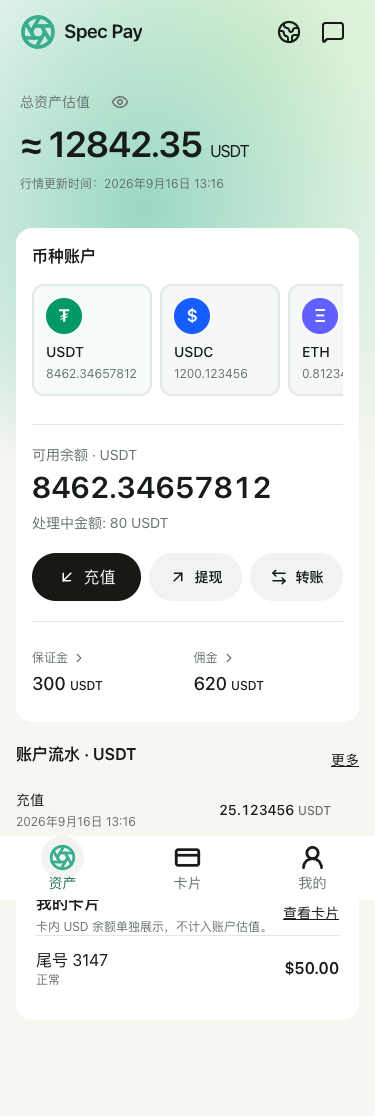
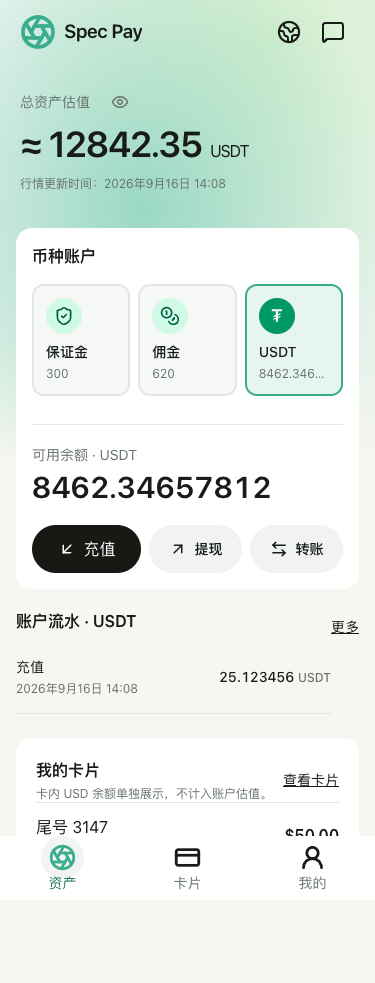
ui: show deposit and commission before currency accounts

diff --git a/resources/js/components/user/AssetCenter.tsx b/resources/js/components/user/AssetCenter.tsx
@@ -9,6 +9,8 @@ import {
     ArrowUpRight,
     ArrowLeftRight,
     ChevronRight,
+    ShieldCheck,
+    Coins,
 } from 'lucide-react';
 import { t, dateTime } from '@/i18n';
 
@@ -81,6 +83,39 @@ export function AssetCenter({ overview }: { overview: AssetOverview }) {
     const current = overview.assets.find((a) => a.asset === selected) ?? overview.assets[0];
     if (!current) return null;
     const show = (value: string) => (hidden ? '••••••' : exactAmount(value));
+    const usdt = overview.assets.find((a) => a.asset === 'USDT');
+    const managedAccounts = usdt
+        ? [
+              {
+                  id: 'deposit',
+                  label: 'Security deposit',
+                  amount: usdt.deposit,
+                  href: '/security-deposit',
+                  action: 'Manage security deposit',
+                  icon: ShieldCheck,
+              },
+              {
+                  id: 'commission',
+                  label: 'Commission',
+                  amount: usdt.commission,
+                  href: '/promotion',
+                  action: 'Manage commission',
+                  icon: Coins,
+              },
+          ]
+        : [];
+    const managed = managedAccounts.find((a) => a.id === selected);
+    const tabs = [
+        ...managedAccounts.map((a) => ({ ...a, asset: 'USDT' })),
+        ...overview.assets.map((a) => ({
+            id: a.asset,
+            label: a.asset,
+            amount: a.available,
+            asset: a.asset,
+            icon: null,
+        })),
+    ];
+    const detailAmount = managed?.amount ?? current.available;
     return (
         <div className="space-y-5">
             <section className="px-1 py-4">
@@ -115,98 +150,98 @@ export function AssetCenter({ overview }: { overview: AssetOverview }) {
                     aria-label={t('Currency accounts')}
                     className="flex gap-2 overflow-x-auto pb-2"
                 >
-                    {overview.assets.map((a) => (
+                    {tabs.map((a) => (
                         <button
-                            key={a.asset}
+                            key={a.id}
                             role="tab"
-                            aria-selected={selected === a.asset}
-                            onClick={() => setSelected(a.asset)}
-                            className={`w-[120px] shrink-0 sm:flex-1 rounded-xl border-2 p-3 text-left transition-colors focus-visible:outline-2 ${selected === a.asset ? 'border-primary bg-primary/5' : 'border-transparent bg-muted/60'}`}
+                            aria-selected={selected === a.id}
+                            aria-label={t(a.label)}
+                            onClick={() => setSelected(a.id)}
+                            className={`user-asset-account flex w-[calc((100%-1rem)/3)] min-w-24 shrink-0 flex-col items-start sm:flex-1 rounded-xl border-2 p-3 text-left transition-colors focus-visible:outline-2 ${selected === a.id ? 'border-primary bg-primary/5' : 'border-transparent bg-muted/60'}`}
                         >
-                            <AssetIcon asset={a.asset} />
-                            <span className="mt-2 block text-sm font-medium">{a.asset}</span>
+                            {a.icon ? (
+                                <span
+                                    aria-hidden
+                                    className="flex size-9 shrink-0 items-center justify-center rounded-full bg-emerald-100 text-emerald-800"
+                                >
+                                    <a.icon size={20} />
+                                </span>
+                            ) : (
+                                <AssetIcon asset={a.asset} />
+                            )}
+                            <span className="mb-1 mt-2 block w-full break-words text-sm font-medium">
+                                {t(a.label)}
+                            </span>
                             <span
-                                title={show(a.available)}
-                                className="mt-1 block truncate text-xs text-muted-foreground"
+                                title={show(a.amount)}
+                                className="mt-auto block w-full truncate text-xs text-muted-foreground"
                             >
-                                {show(a.available)}
+                                {show(a.amount)}
                             </span>
                         </button>
                     ))}
                 </div>
                 <div role="tabpanel" className="mt-5 border-t pt-5">
                     <p className="text-sm text-muted-foreground">
-                        {t('Available balance')} · {current.asset}
+                        {t(managed?.label ?? 'Available balance')} ·{' '}
+                        {managed ? 'USDT' : current.asset}
                     </p>
                     <p
-                        className={`mt-1 break-all font-semibold tabular-nums ${show(current.available).length > 18 ? 'text-xl sm:text-2xl' : 'text-3xl'}`}
+                        className={`mt-1 break-all font-semibold tabular-nums ${show(detailAmount).length > 18 ? 'text-xl sm:text-2xl' : 'text-3xl'}`}
                     >
-                        {show(current.available)}
+                        {show(detailAmount)}
                     </p>
-                    <p className="mt-2 break-all text-sm text-muted-foreground">
-                        {t('Processing amount')}: {show(current.held)} {current.asset}
-                    </p>
-                    <div className="mt-5 flex flex-wrap gap-2">
-                        {current.rails.some((r) => r.deposit) && (
-                            <Link
-                                href={`/assets/operate?mode=deposit&asset=${current.asset}`}
-                                className="flex min-h-12 flex-1 items-center justify-center gap-2 rounded-full bg-primary px-4 text-sm font-medium text-primary-foreground"
-                            >
-                                <ArrowDownLeft size={18} />
-                                {t('Top up')}
-                            </Link>
-                        )}
-                        {current.rails.some((r) => r.withdrawal) && (
-                            <Link
-                                href={`/assets/operate?mode=withdrawal&asset=${current.asset}`}
-                                className="flex min-h-12 flex-1 items-center justify-center gap-2 rounded-full bg-muted px-4 text-sm font-medium"
-                            >
-                                <ArrowUpRight size={18} />
-                                {t('Withdraw')}
-                            </Link>
-                        )}
-                        {current.asset === 'USDT' && current.transfer && (
-                            <Link
-                                href="/wallet/transfer"
-                                className="flex min-h-12 flex-1 items-center justify-center gap-2 rounded-full bg-muted px-4 text-sm font-medium"
-                            >
-                                <ArrowLeftRight size={18} />
-                                {t('Transfer')}
-                            </Link>
-                        )}
-                        {current.exchange && (
-                            <Link
-                                href={`/assets/operate?mode=exchange&asset=${current.asset}`}
-                                className="flex min-h-12 flex-1 items-center justify-center gap-2 rounded-full bg-muted px-4 text-sm font-medium"
-                            >
-                                <ArrowLeftRight size={18} />
-                                {t('Exchange')}
-                            </Link>
-                        )}
-                    </div>
-                    {current.asset === 'USDT' && (
-                        <div className="mt-5 grid grid-cols-2 gap-3 border-t pt-5">
-                            {(
-                                [
-                                    ['Security deposit', current.deposit, '/security-deposit'],
-                                    ['Commission', current.commission, '/promotion'],
-                                ] as const
-                            ).map(([label, amount, href]) => (
-                                <Link key={label} href={href} className="min-w-0 rounded-lg py-2">
-                                    <span className="flex items-center gap-1 text-xs text-muted-foreground">
-                                        {t(label)}
-                                        <ChevronRight size={14} />
-                                    </span>
-                                    <span className="mt-1 block break-all text-lg font-medium">
-                                        {show(amount)} <small className="text-xs">USDT</small>
-                                    </span>
+                    {managed ? (
+                        <Link
+                            href={managed.href}
+                            className="mt-5 flex min-h-12 items-center justify-center gap-2 rounded-full bg-primary px-4 text-sm font-medium text-primary-foreground"
+                        >
+                            {t(managed.action)}
+                            <ChevronRight size={18} />
+                        </Link>
+                    ) : (
+                        <div className="mt-5 flex flex-wrap gap-2">
+                            {current.rails.some((r) => r.deposit) && (
+                                <Link
+                                    href={`/assets/operate?mode=deposit&asset=${current.asset}`}
+                                    className="flex min-h-12 flex-1 items-center justify-center gap-2 rounded-full bg-primary px-4 text-sm font-medium text-primary-foreground"
+                                >
+                                    <ArrowDownLeft size={18} />
+                                    {t('Top up')}
                                 </Link>
-                            ))}
+                            )}
+                            {current.rails.some((r) => r.withdrawal) && (
+                                <Link
+                                    href={`/assets/operate?mode=withdrawal&asset=${current.asset}`}
+                                    className="flex min-h-12 flex-1 items-center justify-center gap-2 rounded-full bg-muted px-4 text-sm font-medium"
+                                >
+                                    <ArrowUpRight size={18} />
+                                    {t('Withdraw')}
+                                </Link>
+                            )}
+                            {current.asset === 'USDT' && current.transfer && (
+                                <Link
+                                    href="/wallet/transfer"
+                                    className="flex min-h-12 flex-1 items-center justify-center gap-2 rounded-full bg-muted px-4 text-sm font-medium"
+                                >
+                                    <ArrowLeftRight size={18} />
+                                    {t('Transfer')}
+                                </Link>
+                            )}
+                            {current.exchange && (
+                                <Link
+                                    href={`/assets/operate?mode=exchange&asset=${current.asset}`}
+                                    className="flex min-h-12 flex-1 items-center justify-center gap-2 rounded-full bg-muted px-4 text-sm font-medium"
+                                >
+                                    <ArrowLeftRight size={18} />
+                                    {t('Exchange')}
+                                </Link>
+                            )}
                         </div>
                     )}
                 </div>
             </section>
-            {!!current.orders?.length && (
+            {!managed && !!current.orders?.length && (
                 <section>
                     <h2 className="mb-2 font-semibold">{t('Recent requests')}</h2>
                     {current.orders.map((order) => (
@@ -237,42 +272,44 @@ export function AssetCenter({ overview }: { overview: AssetOverview }) {
                     ))}
                 </section>
             )}
-            <section>
-                <h2 className="mb-2 font-semibold">
-                    {t('Account activity')} · {current.asset}
-                    <Link
-                        className="float-right py-2 text-sm font-normal underline"
-                        href={`/assets/${current.asset}/activity`}
-                    >
-                        {t('More')}
-                    </Link>
-                </h2>
-                {current.activity.length === 0 ? (
-                    <p className="py-6 text-center text-sm text-muted-foreground">
-                        {t('No activity yet')}
-                    </p>
-                ) : (
-                    current.activity.map((row) => (
-                        <div
-                            key={row.id}
-                            className="flex items-center justify-between gap-3 border-b py-4 text-sm"
+            {!managed && (
+                <section>
+                    <h2 className="mb-2 font-semibold">
+                        {t('Account activity')} · {current.asset}
+                        <Link
+                            className="float-right py-2 text-sm font-normal underline"
+                            href={`/assets/${current.asset}/activity`}
                         >
-                            <div>
-                                <p>{t(row.kind)}</p>
-                                <p className="mt-1 text-xs text-muted-foreground">
-                                    {dateTime(row.time)}
+                            {t('More')}
+                        </Link>
+                    </h2>
+                    {current.activity.length === 0 ? (
+                        <p className="py-6 text-center text-sm text-muted-foreground">
+                            {t('No activity yet')}
+                        </p>
+                    ) : (
+                        current.activity.map((row) => (
+                            <div
+                                key={row.id}
+                                className="flex items-center justify-between gap-3 border-b py-4 text-sm"
+                            >
+                                <div>
+                                    <p>{t(row.kind)}</p>
+                                    <p className="mt-1 text-xs text-muted-foreground">
+                                        {dateTime(row.time)}
+                                    </p>
+                                </div>
+                                <p className="max-w-[55%] break-all text-right font-medium tabular-nums">
+                                    {show(row.amount)}
+                                    <span className="ml-1 text-xs text-muted-foreground">
+                                        {current.asset}
+                                    </span>
                                 </p>
                             </div>
-                            <p className="max-w-[55%] break-all text-right font-medium tabular-nums">
-                                {show(row.amount)}
-                                <span className="ml-1 text-xs text-muted-foreground">
-                                    {current.asset}
-                                </span>
-                            </p>
-                        </div>
-                    ))
-                )}
-            </section>
+                        ))
+                    )}
+                </section>
+            )}
         </div>
     );
 }

diff --git a/resources/js/i18n/assets-catalog.ts b/resources/js/i18n/assets-catalog.ts
@@ -1,4 +1,10 @@
 export const assetsCatalog = {
+    'Manage security deposit': [
+        '管理保证金',
+        'Urus deposit jaminan',
+        'Gestionar depósito de garantía',
+    ],
+    'Manage commission': ['管理佣金', 'Urus komisen', 'Gestionar comisión'],
     'The quote has expired. Request a new quote.': [
         '报价已过期，请重新获取报价。',
         'Sebut harga telah tamat tempoh. Minta sebut harga baharu.',

diff --git a/resources/css/app.css b/resources/css/app.css
@@ -909,6 +909,11 @@ a.user-quick-action:hover .user-quick-action-circle {
     font-size: clamp(20px, 4.267cqw, 32px);
 }
 
+.user-theme .user-asset-account[aria-selected='true'] {
+    border-color: var(--user-primary);
+    background: var(--user-primary-soft);
+}
+
 .user-theme button,
 .user-theme input,
 .user-theme select,

diff --git a/docs/architecture/MULTI_ASSET_CENTER.md b/docs/architecture/MULTI_ASSET_CENTER.md
@@ -42,6 +42,12 @@ sending, and final chain proof are required; ambiguous outgoing transactions ret
 the hold. No manual force-success. Exchange cannot spend deposit, commission or holds.
 
 ## UI / deployment
+2026-09-16 UI revision: the horizontal account selector lists Security deposit,
+Commission, USDT, USDC, ETH, BTC in that order. Deposit and commission are independent
+UI account entries denominated in USDT, linking to their existing management pages.
+They are not new currencies or spendable wallet balances. Remove the processing-amount
+row from the asset center only; settlement holds, estimates and financial rules remain.
+
 The asset center shows original balances and indicative total in USDT, not a
 withdrawable total. Fiat and card USD balances are excluded. Missing quotes hide
 only estimation/exchange, never original balances. User dialogs preserve stable

diff --git a/docs/previews/multi-assets/README.md b/docs/previews/multi-assets/README.md
@@ -4,6 +4,7 @@ Browser-only example balances and enabled networks; not live account balances or
 Screenshots use the real application components. No financial/configuration request is submitted.
 
 - [Mobile assets](375-assets.png), [tablet assets](768-assets.png), [desktop assets](1440-assets.png)
+- [Security deposit account](375-security-deposit.png), [commission account](375-commission.png)
 - [Currency picker](375-currencies.png), [network picker](375-networks.png)
 - [Exchange confirmation](375-exchange.png), [withdrawal review](375-withdrawal.png)
 - [SaaS withdrawal review](1440-admin-orders.png)
